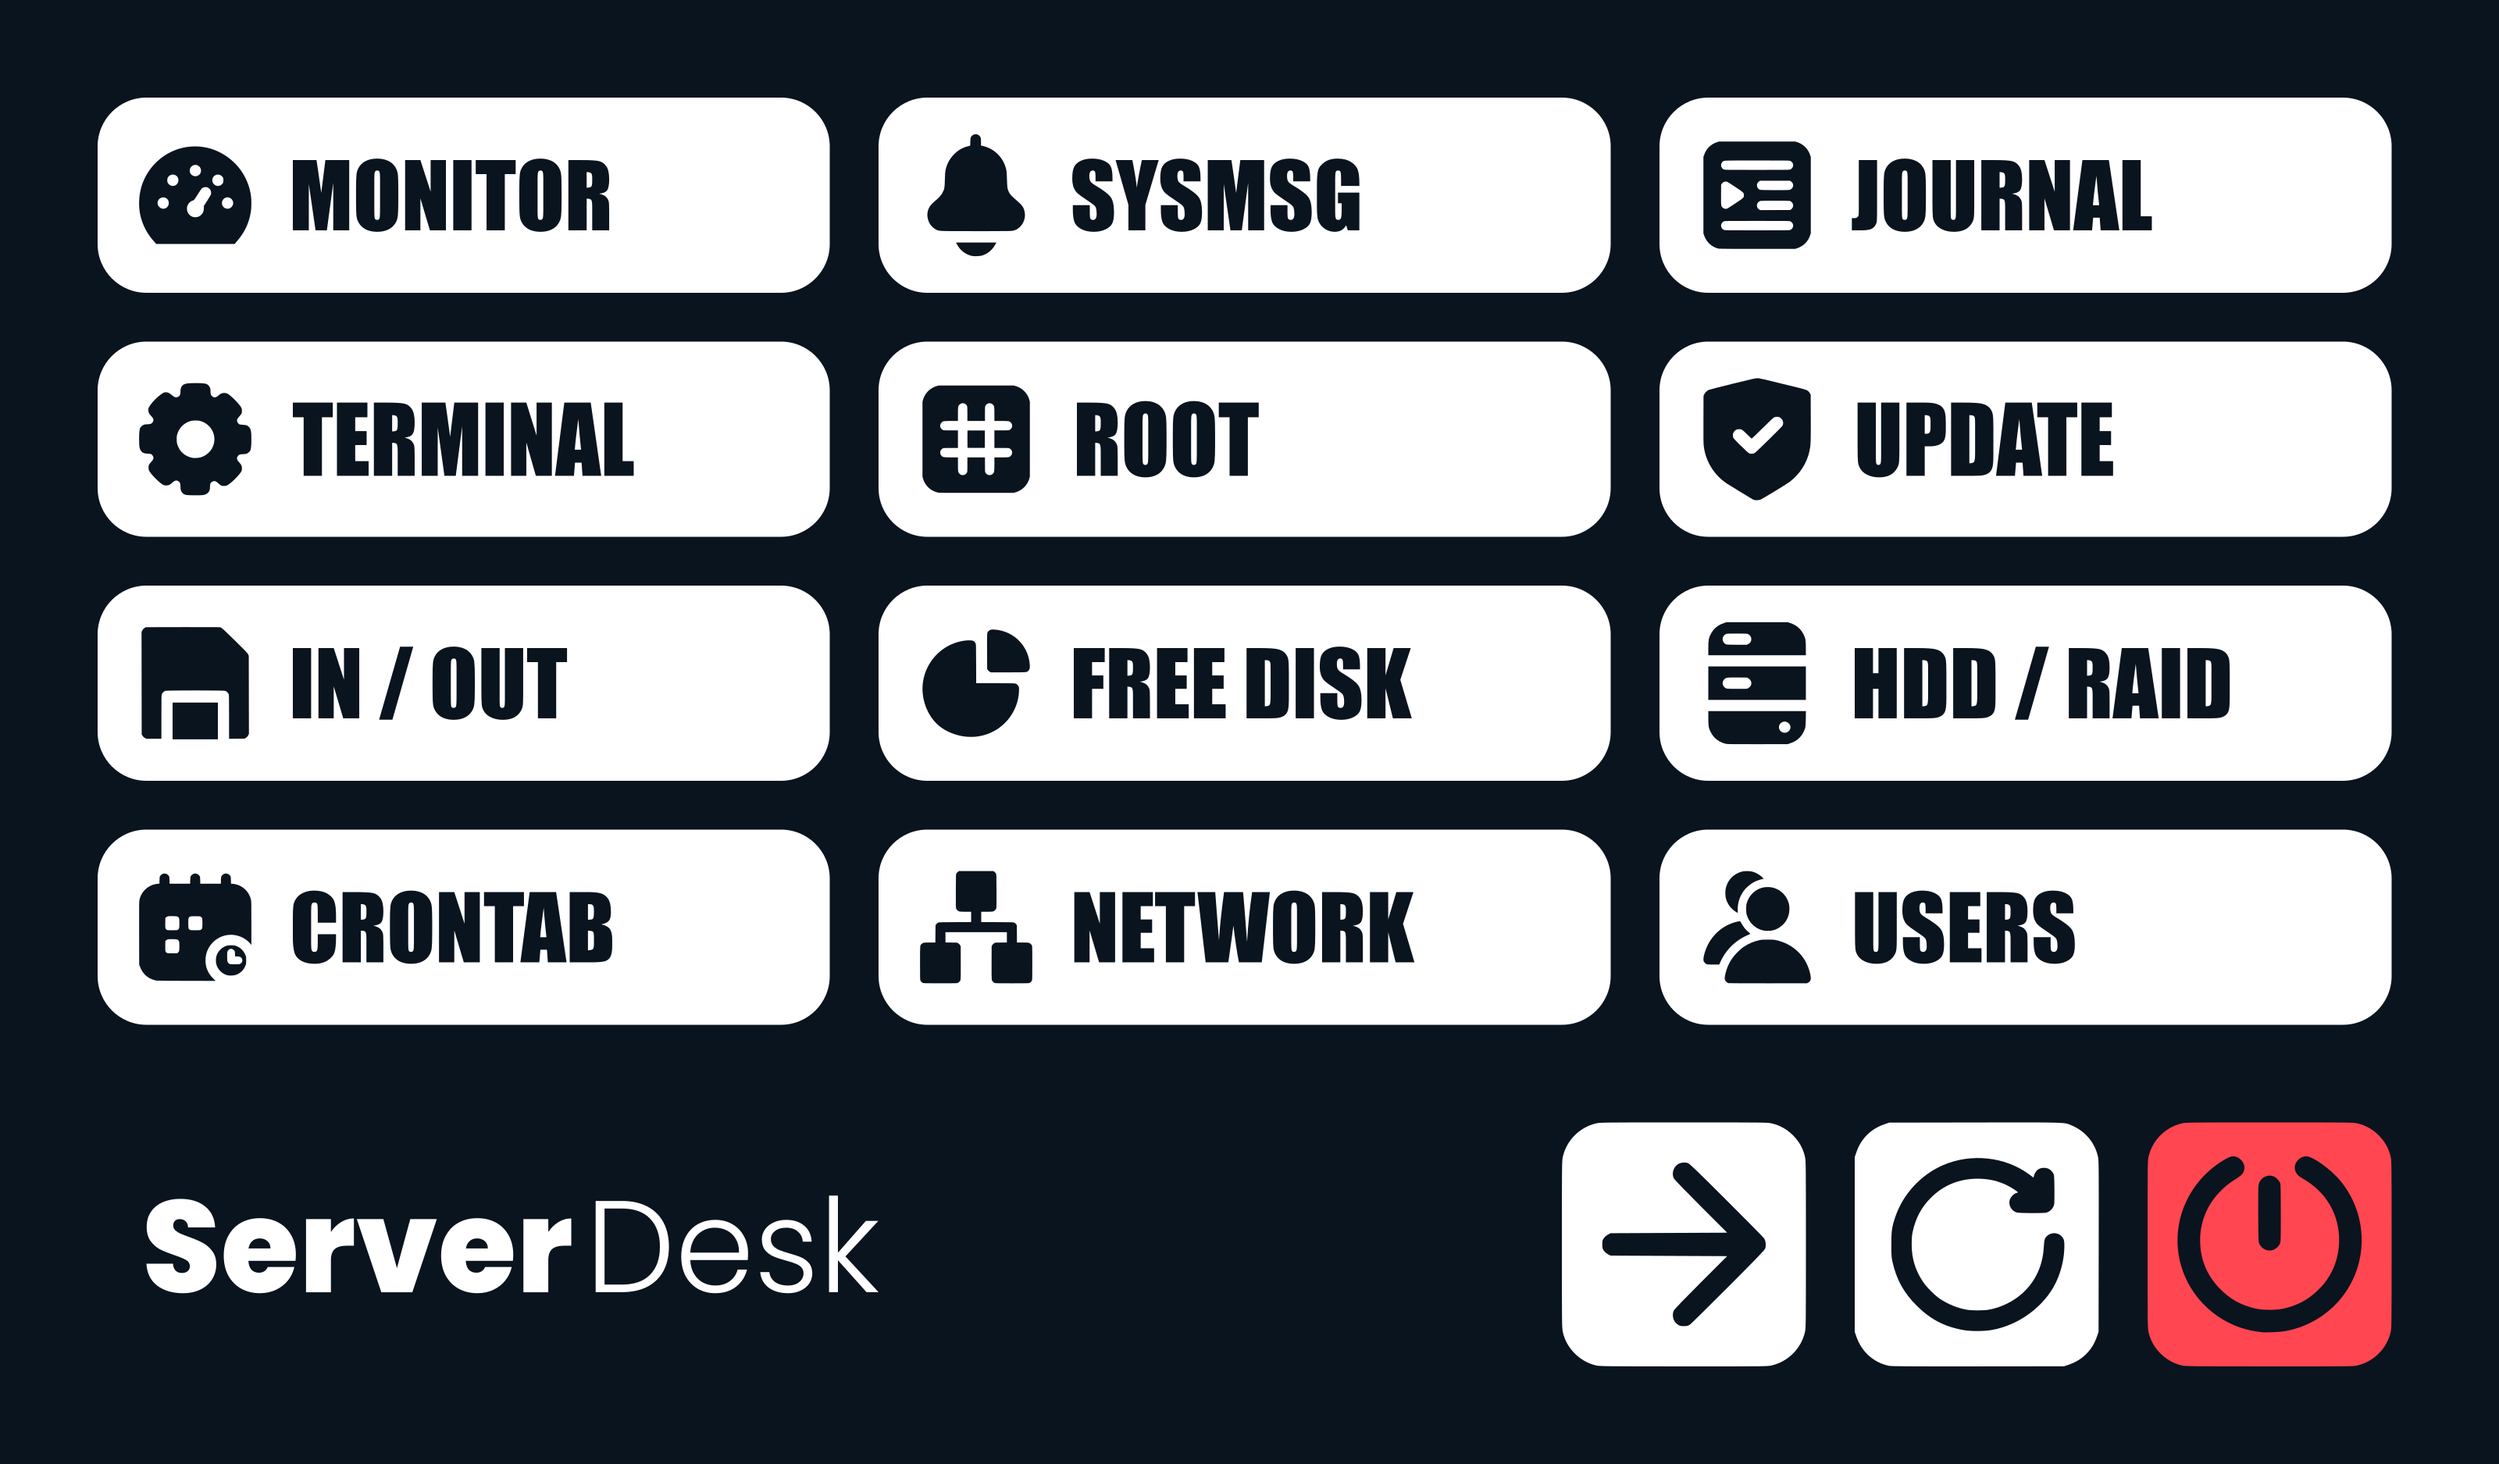
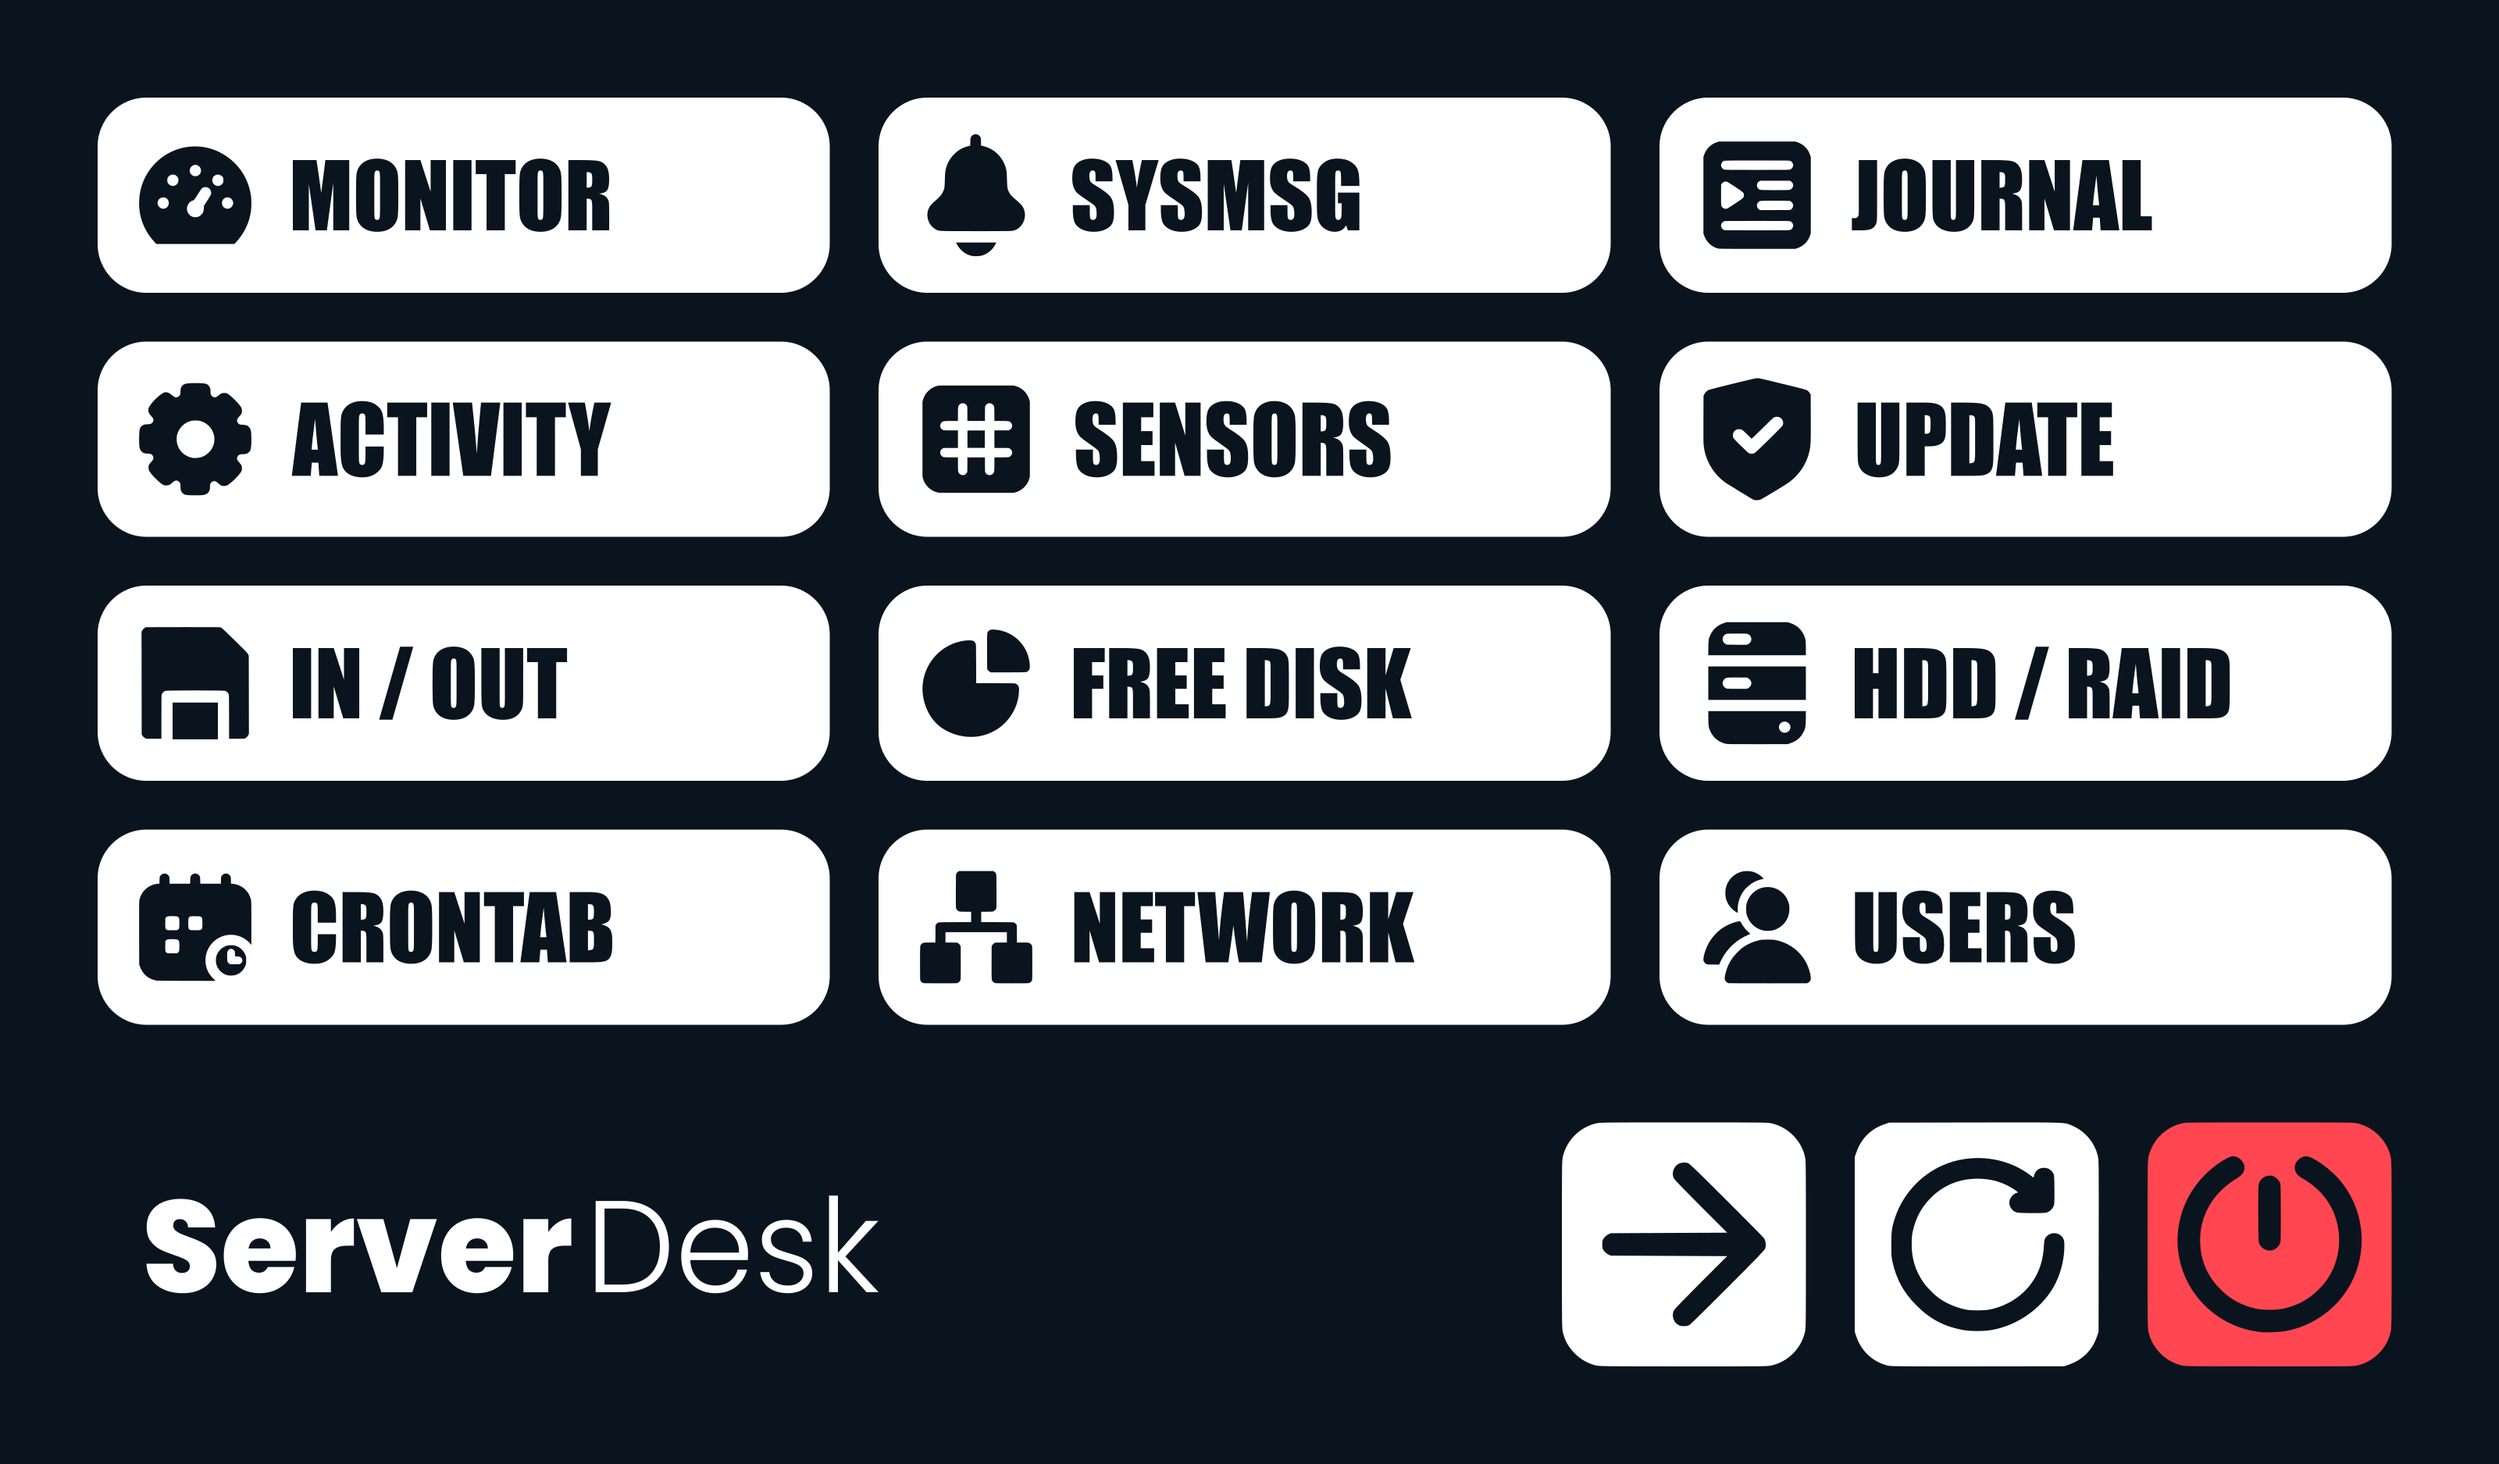
update menu assets and modify actions
- remove terminal/root actions
- add activity (last) and sensors actions
- updated menu overlays
- updated actions.json to reflect new command names and associated commands for "activity" and "sensors"
- refactored menu.py to remove the active_tty function and replace its usage with a predefined TTY variable

Changed region(s): [[0.4375, 0.2784, 0.5625, 0.3403], [0.125, 0.2784, 0.25, 0.3403]]

diff --git a/menu.py b/menu.py
@@ -58,16 +58,6 @@ def err( msg: str, e: None | Exception = None, code: int = 1 ) -> None:
         print( f'[ERR] {msg}' )
     quit( code )
 
-# Determine the active TTY device
-# This is used to write output to the correct terminal
-def active_tty() -> ( str | None ):
-    try:
-        with open( '/sys/class/tty/tty0/active', 'r' ) as f:
-            active = f.read().strip()
-            return f'/dev/{active}'
-    except Exception as e:
-        err( 'Failed to determine active TTY', e )
-
 # Reset terminal to a clean state
 def reset_terminal( sleep: float = 0.1 ) -> None:
     os.system( 'clear && reset' )
@@ -106,7 +96,7 @@ def default_action() -> ( dict | None ):
 
 # Resolve command (replace %DIR% and %TTY%)
 def resolve_command( cmd: str ) -> str:
-    return cmd.replace( '%DIR%', SRC_PATH ).replace( '%TTY%', active_tty() or '' )
+    return cmd.replace( '%DIR%', SRC_PATH ).replace( '%TTY%', TTY )
 
 # Terminate current (running) process if there is one
 def terminate_proc() -> None:
